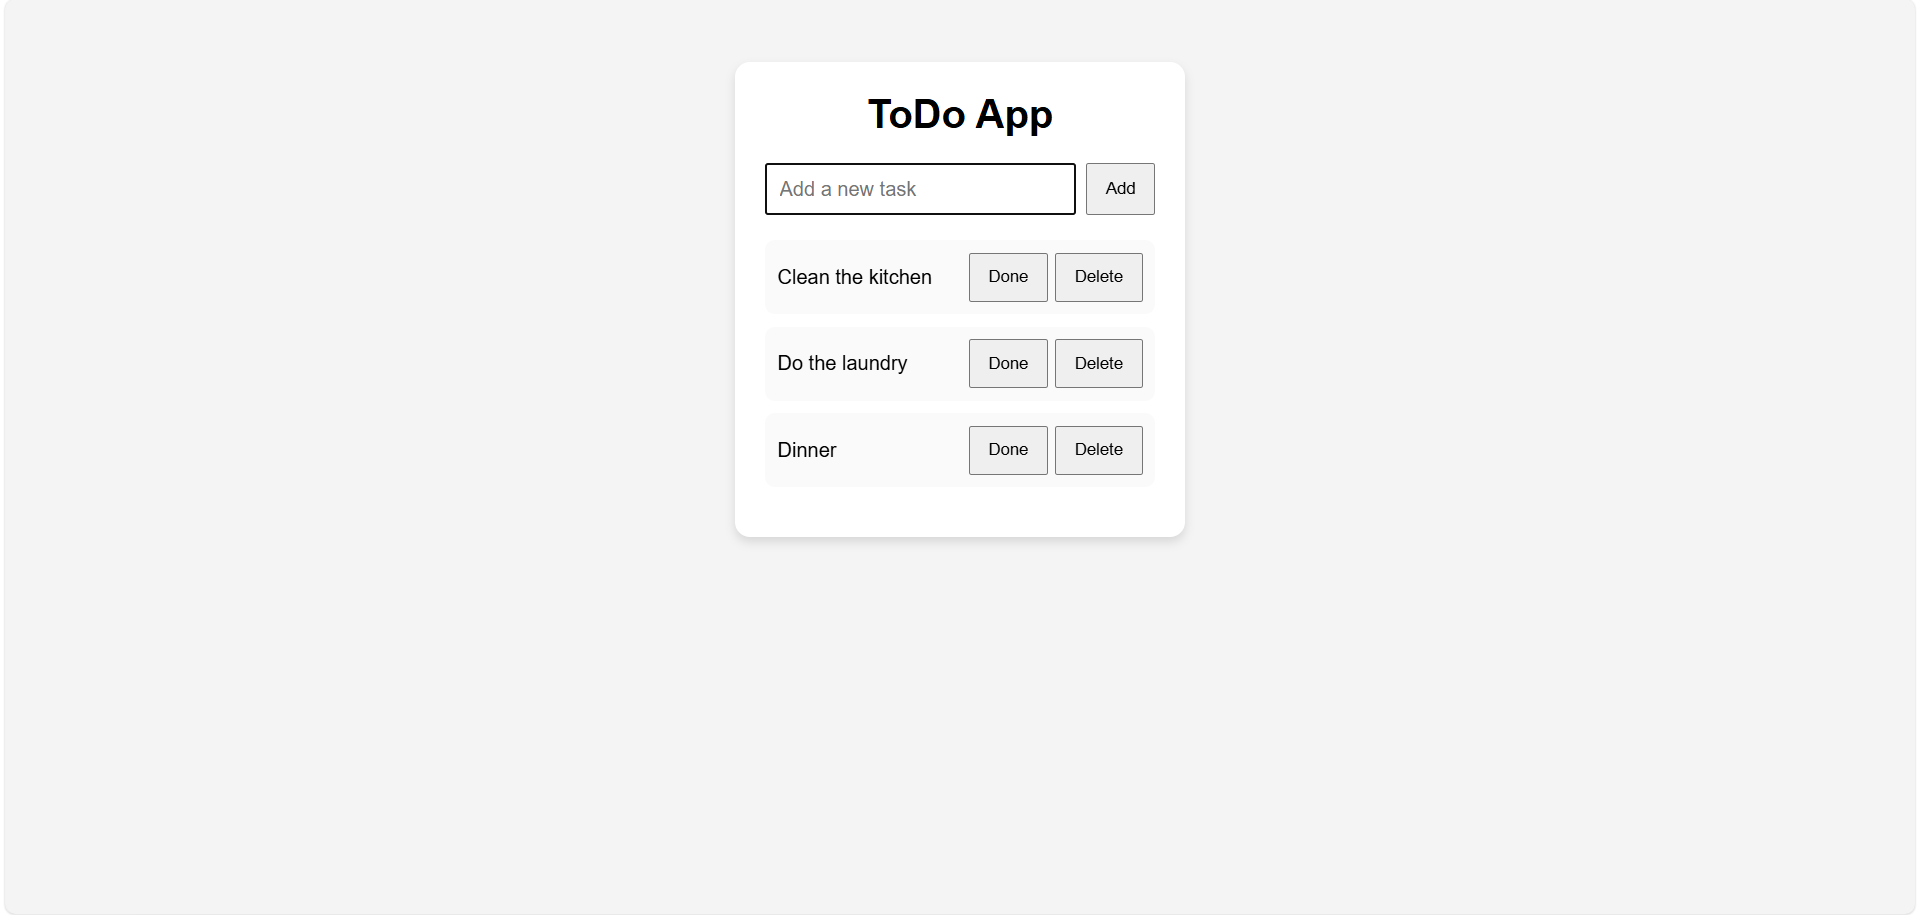
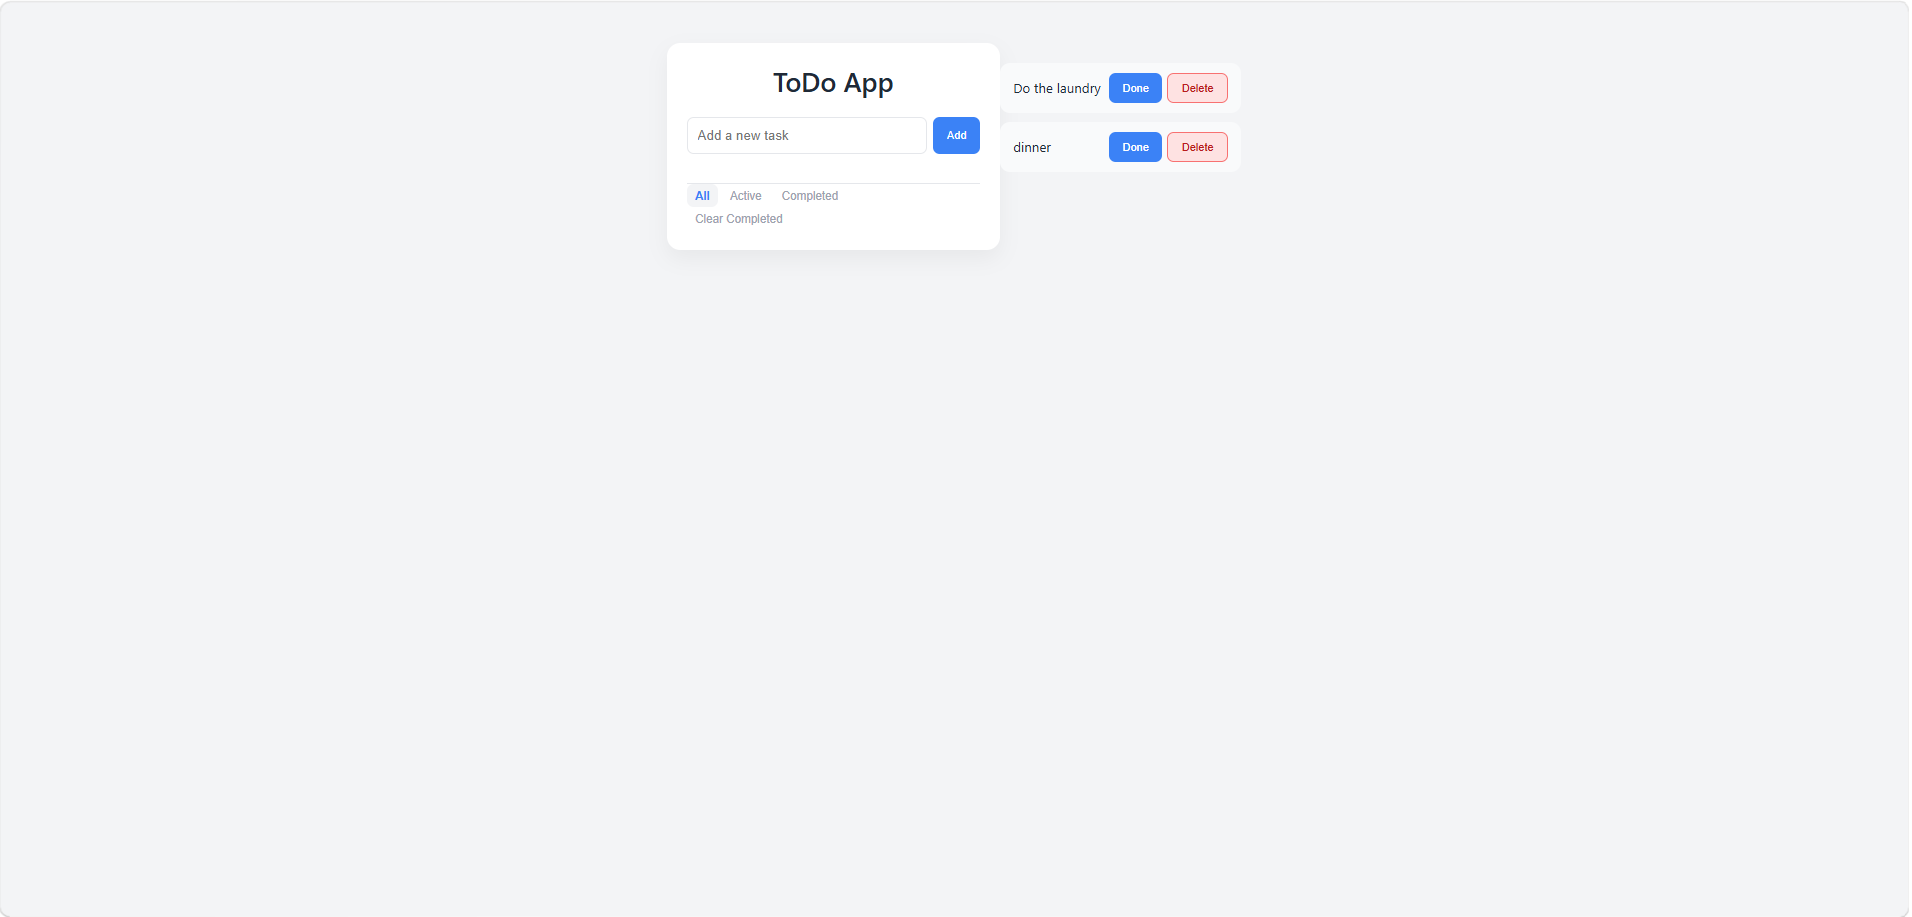
feat: implement v2.5 features including task filters, clear completed action, empty state UI, and a11y improvements

diff --git a/script.js b/script.js
@@ -1,8 +1,11 @@
 const taskInput = document.getElementById("taskInput");
 const addBtn = document.getElementById("addBtn");
-const taskList = document.getElementById("taskList"); 
+const taskList = document.getElementById("taskList");
+const filterBtns = document.querySelectorAll(".filter-btn");
+const clearCompletedBtn = document.getElementById("clearCompletedBtn");
 
 let tasks = [];
+let currentFilter = "all"; // Состояние текущего фильтра
 
 // Safe localStorage loading
 try {
@@ -29,7 +32,25 @@ function saveTasks() {
 function renderTasks() {
     taskList.innerHTML = '';
 
-    tasks.forEach((task, index) => {
+    // 1. Фильтруем задачи
+    let filteredTasks = tasks;
+    if (currentFilter === "active") {
+        filteredTasks = tasks.filter(t => !t.completed);
+    } else if (currentFilter === "completed") {
+        filteredTasks = tasks.filter(t => t.completed);
+    }
+
+    // 2. Решение проблемы "визуальной пустоты" (Empty State)
+    if (filteredTasks.length === 0) {
+        taskList.innerHTML = `<li class="empty-state">No tasks found. Enjoy your day!</li>`;
+        return;
+    }
+
+    // 3. Отрисовка
+    filteredTasks.forEach((task) => {
+        // Находим реальный индекс задачи в основном массиве
+        const originalIndex = tasks.indexOf(task);
+
         const li = document.createElement('li');
 
         if (task.completed) {
@@ -48,7 +69,7 @@ function renderTasks() {
         toggleBtn.type = "button";
 
         toggleBtn.addEventListener("click", () => {
-            tasks[index].completed = !tasks[index].completed;
+            tasks[originalIndex].completed = !tasks[originalIndex].completed;
             saveTasks();
             renderTasks();
         });
@@ -59,7 +80,7 @@ function renderTasks() {
         deleteBtn.type = "button";
 
         deleteBtn.addEventListener("click", () => {
-            tasks.splice(index, 1);
+            tasks.splice(originalIndex, 1);
             saveTasks();
             renderTasks();
         });
@@ -92,6 +113,27 @@ taskInput.addEventListener("keydown", (event) => {
     if (event.key === "Enter") {
         addTask();
     }
+});
+
+// Обработчики для фильтров (V2.5)
+filterBtns.forEach(btn => {
+    btn.addEventListener("click", () => {
+        // Убираем класс active у всех кнопок и добавляем нажатой
+        filterBtns.forEach(b => b.classList.remove("active"));
+        btn.classList.add("active");
+
+        // Меняем текущий фильтр и перерисовываем
+        currentFilter = btn.dataset.filter;
+        renderTasks();
+    });
+});
+
+// Обработчик для очистки выполненных задач (V2.5)
+clearCompletedBtn.addEventListener("click", () => {
+    // Оставляем только те задачи, которые НЕ завершены
+    tasks = tasks.filter(task => !task.completed);
+    saveTasks();
+    renderTasks();
 });
 
 // 1. Сохраняем мигрированные данные один раз при загрузке

diff --git a/style.css b/style.css
@@ -122,3 +122,69 @@ li {
     color: var(--danger-text);
     border: 1px solid var(--danger-border);
 }
+
+/* Скрытие элемента визуально, но оставление для скринридеров */
+.sr-only {
+    position: absolute;
+    width: 1px;
+    height: 1px;
+    padding: 0;
+    margin: -1px;
+    overflow: hidden;
+    clip: rect(0, 0, 0, 0);
+    border: 0;
+}
+
+/* Стили для панели управления V2.5 */
+.controls {
+    display: flex;
+    justify-content: space-between;
+    align-items: center;
+    margin-top: 20px;
+    padding-bottom: 15px;
+    border-bottom: 1px solid #e5e7eb;
+}
+
+.filters {
+    display: flex;
+    gap: 4px;
+}
+
+.filter-btn {
+    background: transparent;
+    color: var(--text-muted);
+    padding: 6px 10px;
+    font-size: 14px;
+}
+
+.filter-btn:hover {
+    color: var(--text-main);
+}
+
+.filter-btn.active {
+    background: var(--bg-main);
+    color: var(--accent-color);
+    font-weight: 600;
+}
+
+.clear-btn {
+    background: transparent;
+    color: var(--text-muted);
+    padding: 6px 10px;
+    font-size: 14px;
+}
+
+.clear-btn:hover {
+    color: var(--danger-text);
+    background: var(--danger-bg);
+}
+
+/* Стиль для визуальной заглушки (Empty State) */
+.empty-state {
+    display: block;
+    text-align: center;
+    color: var(--text-muted);
+    padding: 20px 0;
+    font-style: italic;
+    background: transparent;
+}

diff --git a/index.html b/index.html
@@ -12,8 +12,18 @@
         <h1>ToDo App</h1>
 
         <div class="input-group">
+            <label for="taskInput" class="sr-only">Add a new task</label>
             <input id="taskInput" type="text" placeholder="Add a new task"/>
             <button id="addBtn">Add</button>
+        </div>
+
+        <div class="controls"></div>
+            <div class="filters">
+                <button class="filter-btn active" data-filter="all">All</button>
+                <button class="filter-btn" data-filter="active">Active</button>
+                <button class="filter-btn" data-filter="completed">Completed</button>
+            </div>
+            <button id="clearCompletedBtn" class="clear-btn">Clear Completed</button>
         </div>
 
         <ul id="taskList"></ul>

diff --git a/README.md b/README.md
@@ -1,26 +1,33 @@
-# Todo App
+# Todo App v2.5
 
-Interactive Todo application built with HTML, CSS and JavaScript.
+A modern, interactive Todo application built with HTML, CSS and JavaScript.
+
+This project demonstrates strong foundational front-end skills, including DOM manipulation, event handling, state management, and working with Web Storage APIs.
 
 ## Features
 
-- Add new tasks
-- Mark tasks as completed
-- Delete tasks
-- Save tasks in localStorage
-- Restore tasks after page reload
-- Add tasks with Enter key
+- **Task Management:** Add new tasks, mark them as completed, or delete them.
+- **Task Filtering (V2.5):** Quickly switch between "All", "Active", and "Completed" tasks.
+- **Bulk Actions (V2.5):** "Clear completed" button to quickly clean up the list.
+- **Data Persistence:** Tasks are saved in `localStorage` and restored automatically upon page reload.
+- **Legacy data migration:** Built-in automatic conversion of old v1 data formats (strings) to v2 formats (objects).
+- **Accessibility (A11y):** Form inputs are labeled correctly for screen readers using `.sr-only` techniques.
+- **Responsive design:** Fluid layout optimized for both desktop and mobile devices using CSS variables for easy theming.
+- **UX Improvements:** Support for "Enter" key submission and an "Empty State" UI when no tasks are present.
 
 ## Technologies
 
-- HTML
-- CSS
-- JavaScript
-- localStorage
+- HTML5
+- CSS3 (Custom Properties / Variables, Flexbox)
+- JavaScript (ES6+)
+- `localStorage` API
 
 ## Project Goal
 
-This project was created to practice DOM manipulation, event handling, and working with browser storage.
+This project was developed as a portfolio piece to practice and showcase:
+1. Clean UI/UX implementation without frameworks.
+2. Separation of concerns (handling data state vs. UI rendering).
+3. Advanced array methods (`filter`, `map`, `forEach`).
 
 ## Live Demo
 
@@ -29,3 +36,18 @@ This project was created to practice DOM manipulation, event handling, and worki
 ## Screenshot
 
 ![Todo App Screenshot](images/screenshot.png)
+
+## Changelog
+
+### V2.5
+
+- Added filtering system (All, Active, Completed).
+- Added "Clear completed" functionality.
+- Added explicit visual Empty State.
+- Improved Accessibility with hidden `<label>` tags.
+
+### V2.0
+
+- Migrated task data structure from simple strings to complex objects.
+- Extracted design system into CSS Variables.
+- Polished UI interactions and hover states.
